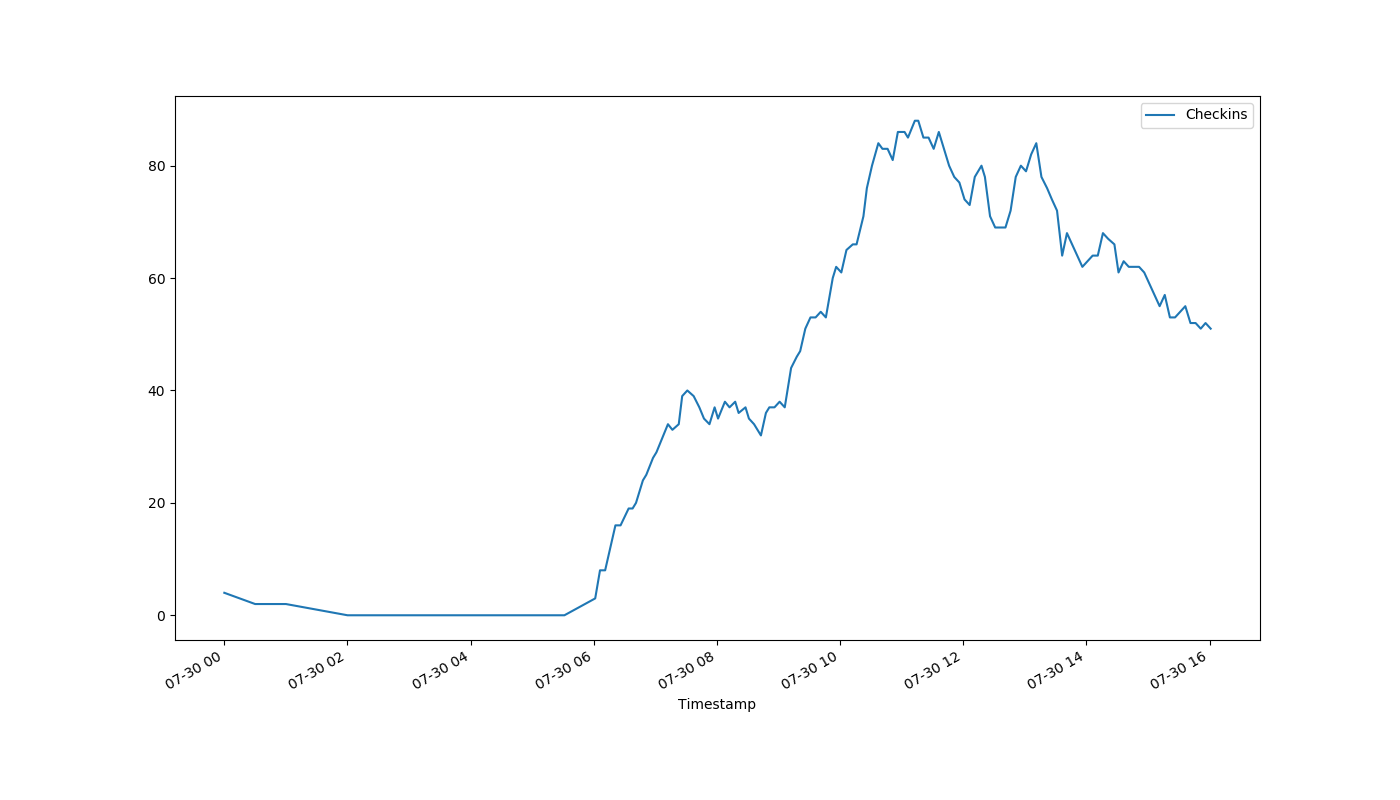
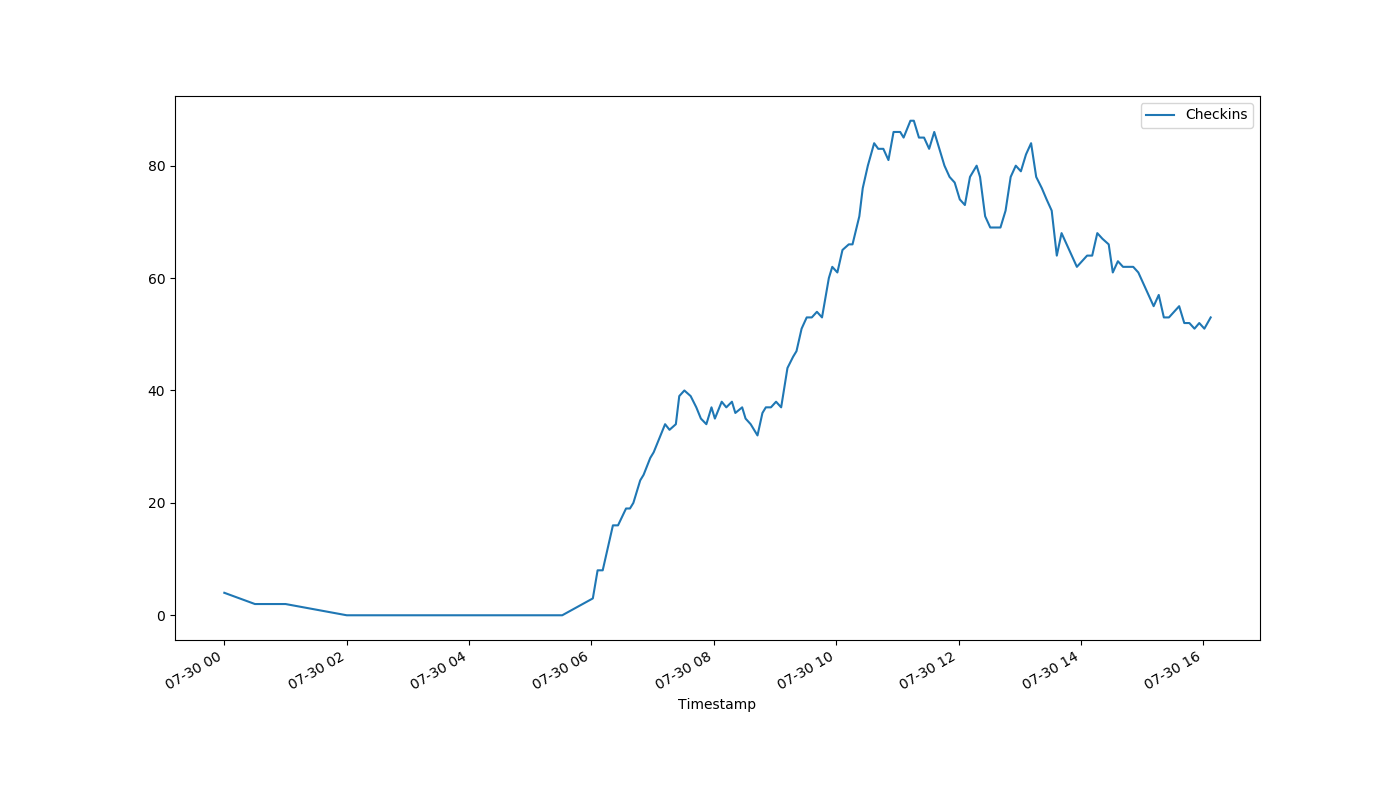
auto-Jul-30-16:08:16

diff --git a/index.html b/index.html
@@ -1,1 +1,1 @@
-<!DOCTYPE html><html><head><meta http-equiv="refresh" content="30"><link rel='stylesheet' href='holmcurrent.css'></head><body><p id='count'>51</p><div id='graph-wrap'><img id='graph' src='holmgraph-Jul-30.png'></div><p id='updated'>Last updated 16:01:19 / 16:01:00</p></body></html>
+<!DOCTYPE html><html><head><meta http-equiv="refresh" content="30"><link rel='stylesheet' href='holmcurrent.css'></head><body><p id='count'>53</p><div id='graph-wrap'><img id='graph' src='holmgraph-Jul-30.png'></div><p id='updated'>Last updated 16:08:00 / 16:07:12</p></body></html>
